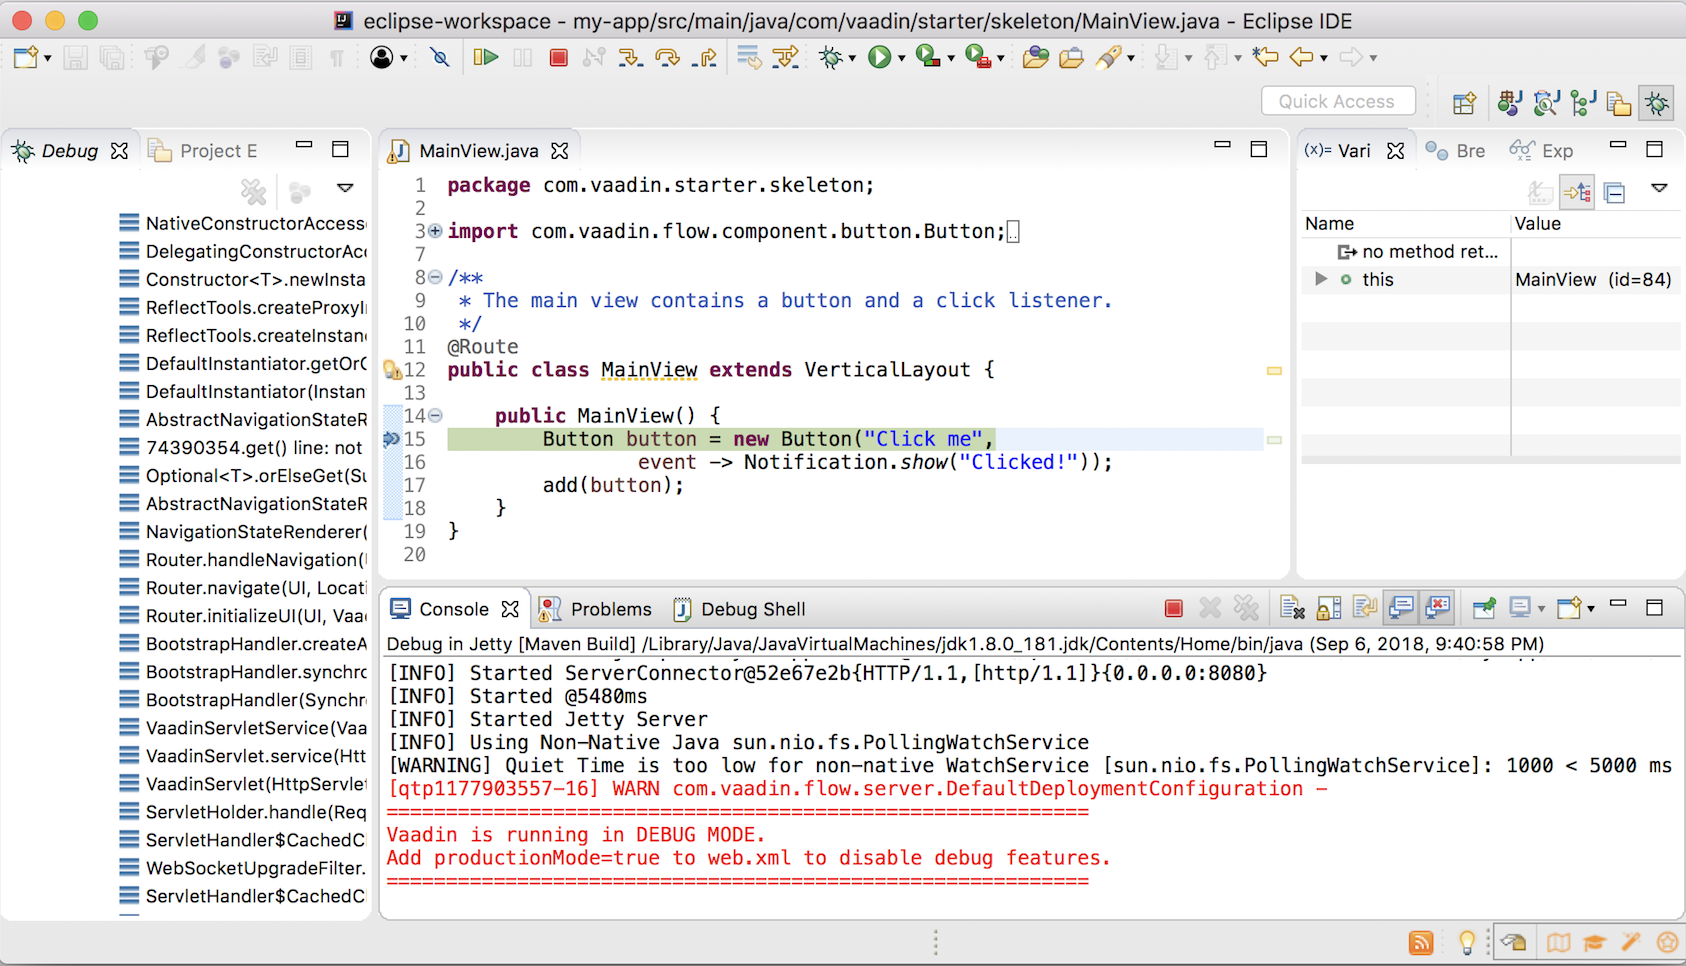
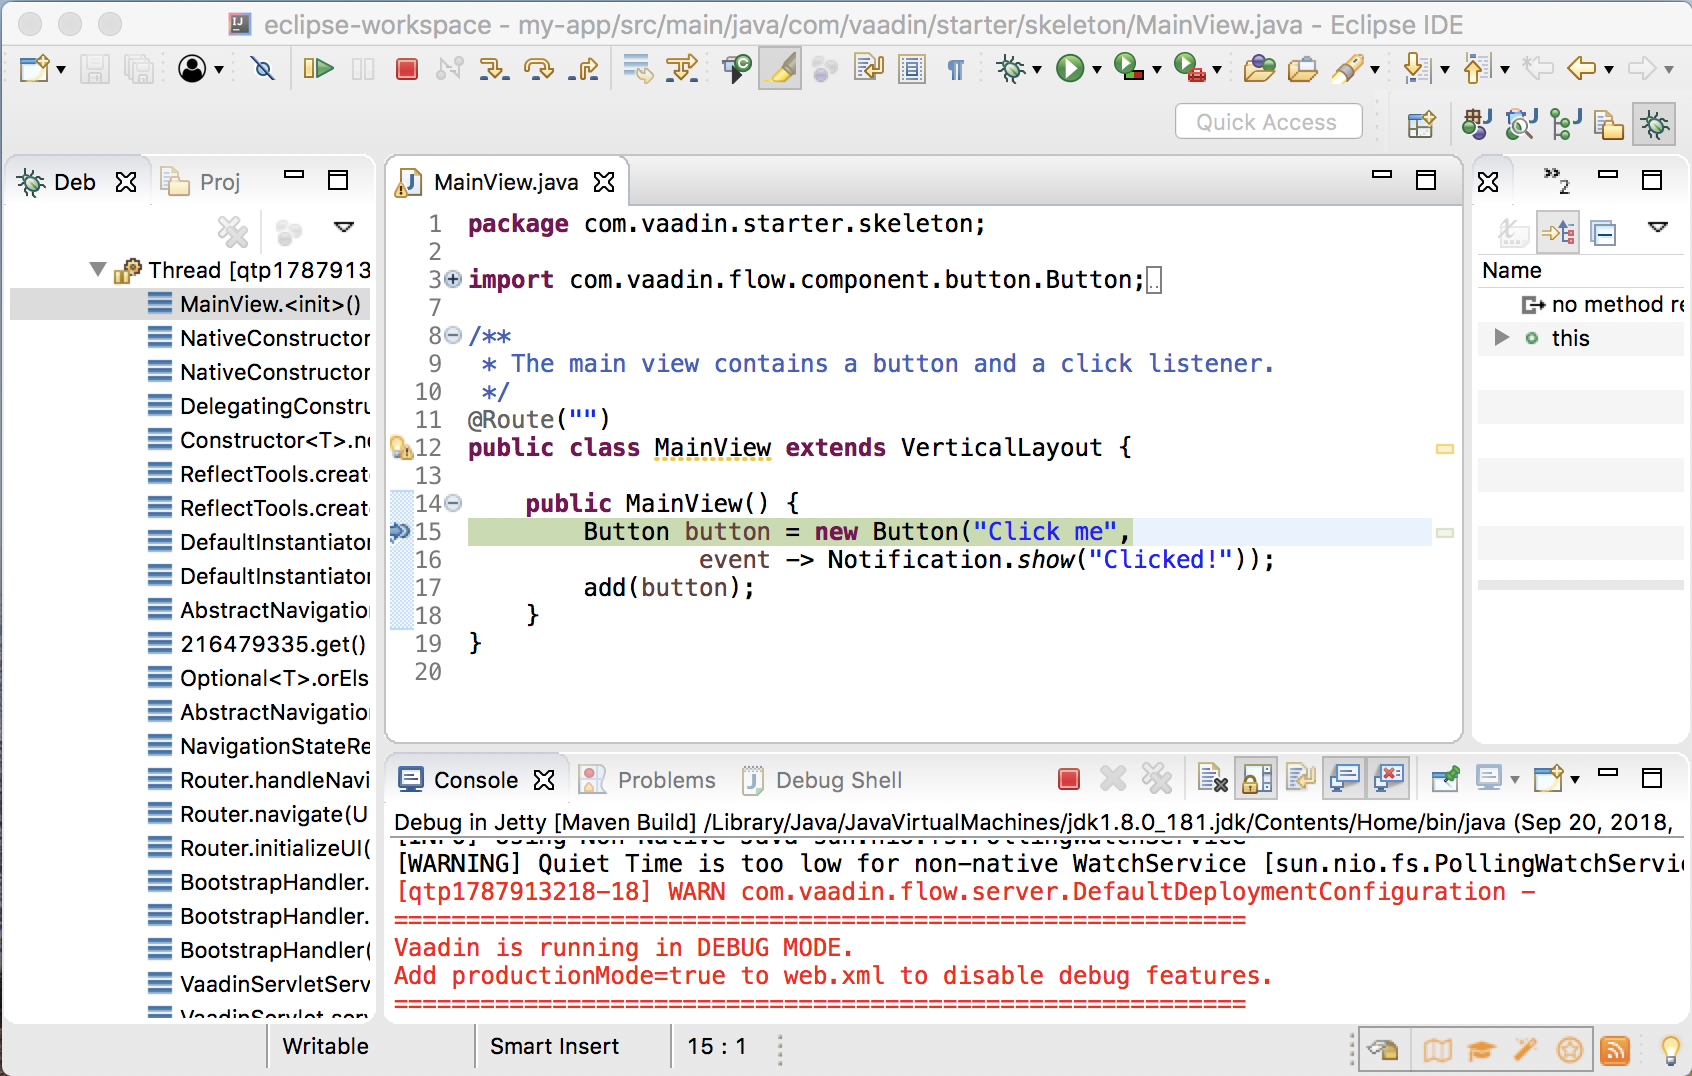
Rewrite Flow getting-started tutorial
Applying grammatical changes.

Changed region(s): [[0.0, 0.0, 1.0, 1.0], [0.8327, 0.4037, 0.8636, 0.4348], [0.7402, 0.3727, 0.7711, 0.4037]]

diff --git a/tutorial-getting-started/src/main/java/com/vaadin/starter/skeleton/TutorialGetStartedForthPart.java b/tutorial-getting-started/src/main/java/com/vaadin/starter/skeleton/TutorialGetStartedForthPart.java
@@ -68,7 +68,7 @@ public class TutorialGetStartedForthPart {
     /**
      * The main view contains a button and a click listener.
      */
-    @Route
+    @Route("")
     public class MainView extends VerticalLayout {
         private CustomerService service = CustomerService.getInstance();
         private Grid<Customer> grid = new Grid<>();

diff --git a/tutorial-getting-started/src/main/java/com/vaadin/starter/skeleton/TutorialGetStartedThirdPart.java b/tutorial-getting-started/src/main/java/com/vaadin/starter/skeleton/TutorialGetStartedThirdPart.java
@@ -19,7 +19,7 @@ public class TutorialGetStartedThirdPart {
         /**
          * The main view contains a button and a click listener.
          */
-        @Route
+        @Route("")
         public class MainView extends VerticalLayout {
 
             private CustomerService service = CustomerService.getInstance();

diff --git a/tutorial-getting-started/src/main/java/com/vaadin/starter/skeleton/TutorialGetStartedSecondPart.java b/tutorial-getting-started/src/main/java/com/vaadin/starter/skeleton/TutorialGetStartedSecondPart.java
@@ -9,7 +9,7 @@ import com.vaadin.flow.tutorial.annotations.CodeFor;
 public class TutorialGetStartedSecondPart {
 
 
-    @Route
+    @Route("")
     public class MainView extends VerticalLayout {
 
         private CustomerService service = CustomerService.getInstance();

diff --git a/tutorial-getting-started/src/main/java/com/vaadin/starter/skeleton/TutorialGetStartedFirstPart.java b/tutorial-getting-started/src/main/java/com/vaadin/starter/skeleton/TutorialGetStartedFirstPart.java
@@ -11,7 +11,7 @@ public class TutorialGetStartedFirstPart {
     /**
      * The main view contains a button and a click listener.
      */
-    @Route
+    @Route("")
     public class MainView extends VerticalLayout {
 
         public MainView() {
